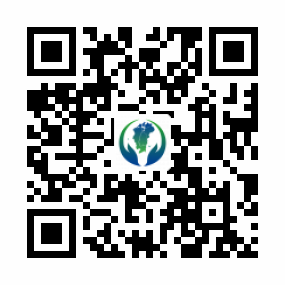
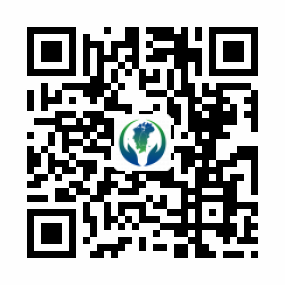
1

Changed region(s): [[0.0842, 0.0842, 0.9263, 0.9263]]

diff --git a/jxwdyf_hzz/JXHZZ/README.md b/jxwdyf_hzz/JXHZZ/README.md
@@ -3,4 +3,4 @@ iOS：
     itms-services://?action=download-manifest&url=https://raw.githubusercontent.com/MiroHuang/jxwdyf/master/jxwdyf_hzz/JXHZZ/iOS/manifest.plist
 
 Android：
-    https://raw.githubusercontent.com/MiroHuang/jxwdyf/master/jxwdyf_hzz/JXHZZ/Android/jxhzz.apk
+    http://117.40.243.2:8070/river-site/img/login/jxhzz.apk
